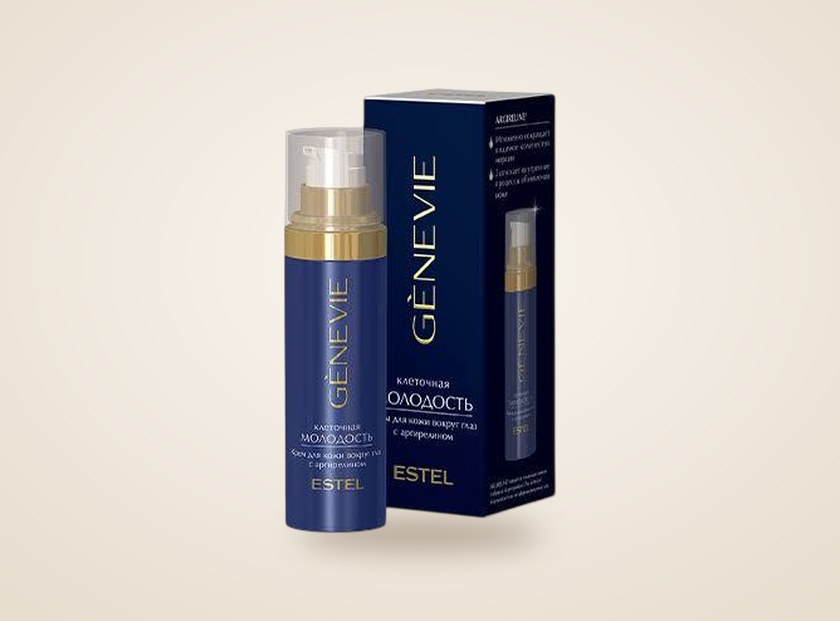
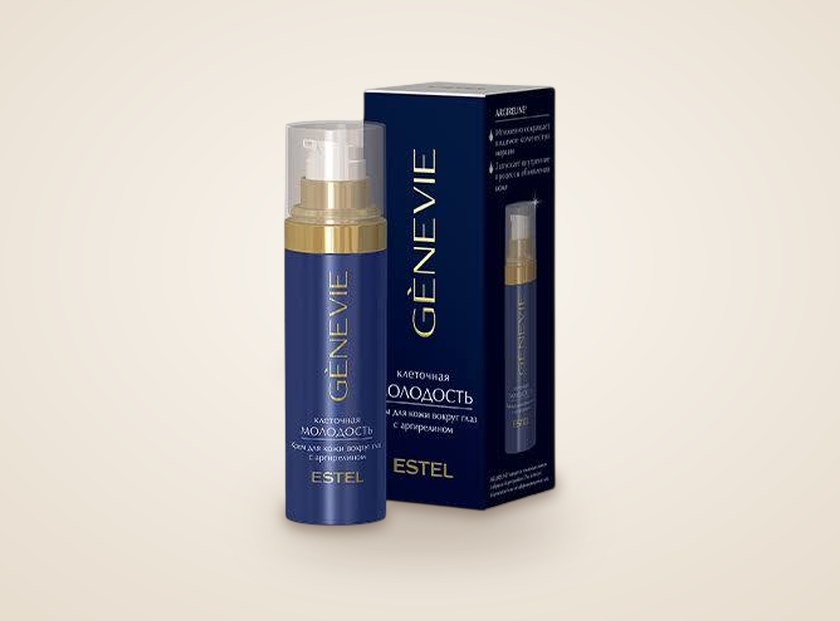
kiyan: larger wide products, grounded shadows on cosmetics tiles
Claude-Session: https://claude.ai/code/session_015USu4JDiE3nfj6r1xSzsBR

diff --git a/kiyan/index.html b/kiyan/index.html
@@ -901,12 +901,12 @@ h2 em,h1 em{font-style:italic;font-weight:500;color:var(--tp)}
       <p class="lead rv d2">На этой линии Анастасия работает в кабинете. Средства для дома подберёт под вашу кожу после процедуры, купить их можно прямо в студии.</p>
     </div>
     <div class="cos">
-      <article class="pc2 rv"><div class="ph"><img src="img/cos/p1.jpg" alt="Сыворотка с гиалуроновой кислотой Gènevie" width="840" height="621" loading="lazy"></div><div class="bd"><span class="ln">Клеточная молодость</span><h3>Сыворотка с гиалуроновой кислотой</h3><p>Четыре типа гиалуроновой кислоты: глубокое увлажнение и упругость.</p><div class="ft"><span class="pr">3 700 ₽</span><a href="#book" data-book data-msg="Здравствуйте, Анастасия! Интересует сыворотка Gènevie с гиалуроновой кислотой.">Подобрать</a></div></div></article>
-      <article class="pc2 rv d1"><div class="ph"><img src="img/cos/p2.jpg" alt="Крем с церамидами и пептидами Gènevie" width="840" height="621" loading="lazy"></div><div class="bd"><span class="ln">Клеточная молодость</span><h3>Крем с церамидами и пептидами</h3><p>Восстанавливает защитный барьер кожи и помогает против морщин.</p><div class="ft"><span class="pr">3 000 ₽</span><a href="#book" data-book data-msg="Здравствуйте, Анастасия! Интересует крем Gènevie с церамидами и пептидами.">Подобрать</a></div></div></article>
-      <article class="pc2 rv d2"><div class="ph"><img src="img/cos/p3.jpg" alt="Крем для кожи вокруг глаз Gènevie" width="840" height="621" loading="lazy"></div><div class="bd"><span class="ln">Клеточная молодость</span><h3>Крем для кожи вокруг глаз</h3><p>С аргирелином: разглаживает мимические морщины, меньше отёков.</p><div class="ft"><span class="pr">2 500 ₽</span><a href="#book" data-book data-msg="Здравствуйте, Анастасия! Интересует крем Gènevie для кожи вокруг глаз.">Подобрать</a></div></div></article>
-      <article class="pc2 rv"><div class="ph"><img src="img/cos/p4.jpg" alt="Крем для лица и шеи Gènevie Мембранный лифтинг" width="840" height="621" loading="lazy"></div><div class="bd"><span class="ln">Мембранный лифтинг</span><h3>Крем для лица и шеи</h3><p>Пептиды и меристемные клетки: подтягивает контур и укрепляет кожу.</p><div class="ft"><span class="pr">3 500 ₽</span><a href="#book" data-book data-msg="Здравствуйте, Анастасия! Интересует крем Gènevie для лица и шеи.">Подобрать</a></div></div></article>
-      <article class="pc2 rv d1"><div class="ph"><img src="img/cos/p5.jpg" alt="Ночной крем с пребиотиком Gènevie" width="840" height="621" loading="lazy"></div><div class="bd"><span class="ln">Циркадные ритмы ночи</span><h3>Ночной крем с пребиотиком</h3><p>Восстанавливает кожу во время сна и защищает от стресса.</p><div class="ft"><span class="pr">4 300 ₽</span><a href="#book" data-book data-msg="Здравствуйте, Анастасия! Интересует ночной крем Gènevie.">Подобрать</a></div></div></article>
-      <article class="pc2 rv d2"><div class="ph"><img src="img/cos/p6.jpg" alt="Ночная сыворотка Gènevie" width="840" height="621" loading="lazy"></div><div class="bd"><span class="ln">Циркадные ритмы ночи</span><h3>Ночная сыворотка для лица</h3><p>Глубокое увлажнение и обновление кожи за ночь.</p><div class="ft"><span class="pr">4 300 ₽</span><a href="#book" data-book data-msg="Здравствуйте, Анастасия! Интересует ночная сыворотка Gènevie.">Подобрать</a></div></div></article>
+      <article class="pc2 rv"><div class="ph"><img src="img/cos/p1.jpg?v=2" alt="Сыворотка с гиалуроновой кислотой Gènevie" width="840" height="621" loading="lazy"></div><div class="bd"><span class="ln">Клеточная молодость</span><h3>Сыворотка с гиалуроновой кислотой</h3><p>Четыре типа гиалуроновой кислоты: глубокое увлажнение и упругость.</p><div class="ft"><span class="pr">3 700 ₽</span><a href="#book" data-book data-msg="Здравствуйте, Анастасия! Интересует сыворотка Gènevie с гиалуроновой кислотой.">Подобрать</a></div></div></article>
+      <article class="pc2 rv d1"><div class="ph"><img src="img/cos/p2.jpg?v=2" alt="Крем с церамидами и пептидами Gènevie" width="840" height="621" loading="lazy"></div><div class="bd"><span class="ln">Клеточная молодость</span><h3>Крем с церамидами и пептидами</h3><p>Восстанавливает защитный барьер кожи и помогает против морщин.</p><div class="ft"><span class="pr">3 000 ₽</span><a href="#book" data-book data-msg="Здравствуйте, Анастасия! Интересует крем Gènevie с церамидами и пептидами.">Подобрать</a></div></div></article>
+      <article class="pc2 rv d2"><div class="ph"><img src="img/cos/p3.jpg?v=2" alt="Крем для кожи вокруг глаз Gènevie" width="840" height="621" loading="lazy"></div><div class="bd"><span class="ln">Клеточная молодость</span><h3>Крем для кожи вокруг глаз</h3><p>С аргирелином: разглаживает мимические морщины, меньше отёков.</p><div class="ft"><span class="pr">2 500 ₽</span><a href="#book" data-book data-msg="Здравствуйте, Анастасия! Интересует крем Gènevie для кожи вокруг глаз.">Подобрать</a></div></div></article>
+      <article class="pc2 rv"><div class="ph"><img src="img/cos/p4.jpg?v=2" alt="Крем для лица и шеи Gènevie Мембранный лифтинг" width="840" height="621" loading="lazy"></div><div class="bd"><span class="ln">Мембранный лифтинг</span><h3>Крем для лица и шеи</h3><p>Пептиды и меристемные клетки: подтягивает контур и укрепляет кожу.</p><div class="ft"><span class="pr">3 500 ₽</span><a href="#book" data-book data-msg="Здравствуйте, Анастасия! Интересует крем Gènevie для лица и шеи.">Подобрать</a></div></div></article>
+      <article class="pc2 rv d1"><div class="ph"><img src="img/cos/p5.jpg?v=2" alt="Ночной крем с пребиотиком Gènevie" width="840" height="621" loading="lazy"></div><div class="bd"><span class="ln">Циркадные ритмы ночи</span><h3>Ночной крем с пребиотиком</h3><p>Восстанавливает кожу во время сна и защищает от стресса.</p><div class="ft"><span class="pr">4 300 ₽</span><a href="#book" data-book data-msg="Здравствуйте, Анастасия! Интересует ночной крем Gènevie.">Подобрать</a></div></div></article>
+      <article class="pc2 rv d2"><div class="ph"><img src="img/cos/p6.jpg?v=2" alt="Ночная сыворотка Gènevie" width="840" height="621" loading="lazy"></div><div class="bd"><span class="ln">Циркадные ритмы ночи</span><h3>Ночная сыворотка для лица</h3><p>Глубокое увлажнение и обновление кожи за ночь.</p><div class="ft"><span class="pr">4 300 ₽</span><a href="#book" data-book data-msg="Здравствуйте, Анастасия! Интересует ночная сыворотка Gènevie.">Подобрать</a></div></div></article>
     </div>
     <p class="cnote rv">Цены и наличие уточняйте у Анастасии.</p>
   </div>
